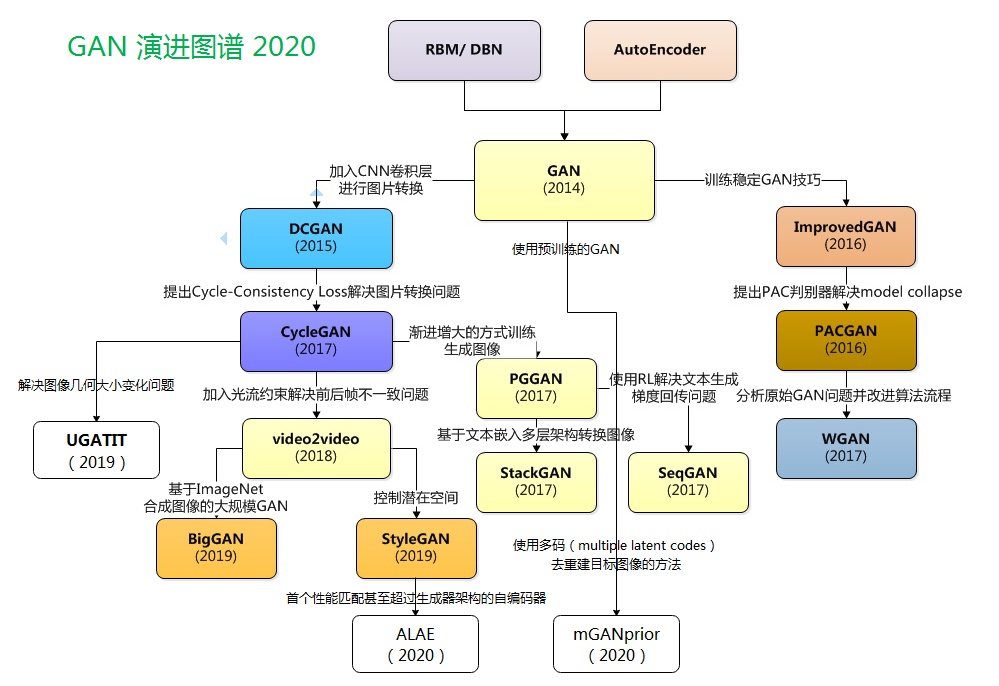
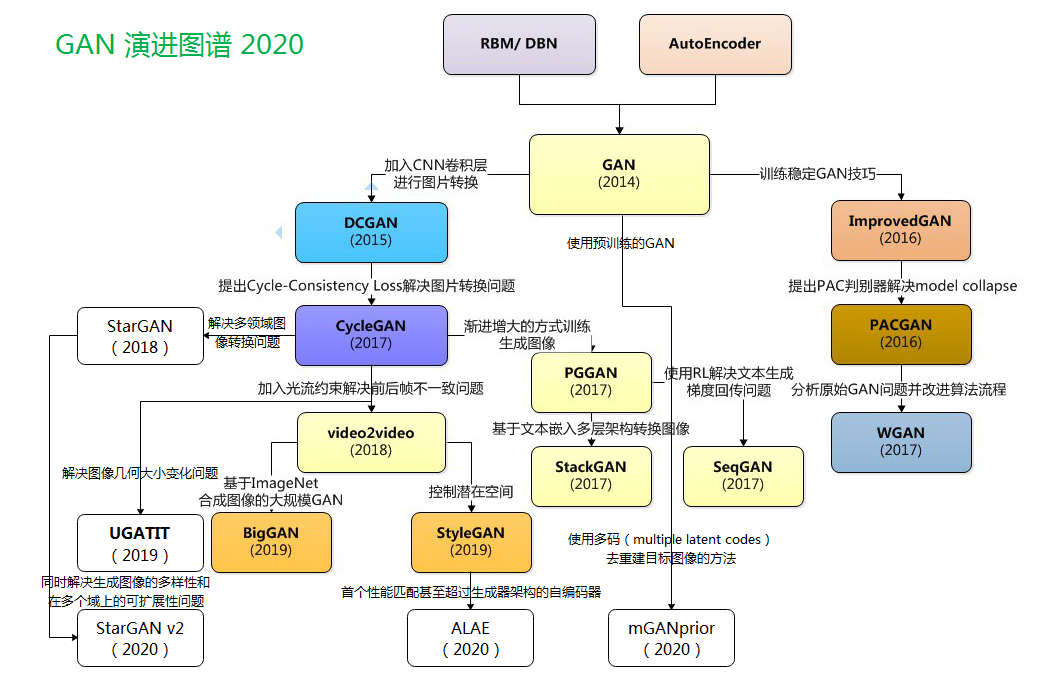
add StarGAN-v2

diff --git a/README.md b/README.md
@@ -3,9 +3,9 @@ GAN evolution graph 2020.
 
 ![](paper_images/GAN_2020.png)
 
-This repository contains the pix2pixHD algorithms(proposed by NVIDIA) of [DeepNude](DeepNude_software_itself), and more importantly, the general image generation theory and practice behind DeepNude. This resource includes the TensorFlow2 (Pytorch | PaddlePaddle) implementation of image generation models such as [pix2pix](Pix2Pix), [CycleGAN](CycleGAN), UGATIT, [DCGAN](DCGAN), SinGAN, [VAE](Variational_Autoencoder), ALAE and mGANprior.
+This repository contains the pix2pixHD algorithms(proposed by NVIDIA) of [DeepNude](DeepNude_software_itself), and more importantly, the general image generation theory and practice behind DeepNude. This resource includes the TensorFlow2 (Pytorch | PaddlePaddle) implementation of image generation models such as [pix2pix](Pix2Pix), [CycleGAN](CycleGAN), UGATIT, [DCGAN](DCGAN), SinGAN, [VAE](Variational_Autoencoder), ALAE, mGANprior and StarGAN-v2.
 
-这个仓库包含[DeepNude](DeepNude_software_itself)的pix2pixHD(由英伟达提出)算法，更重要的是DeepNude背后通用的图像生成理论与实践研究。本资源包含[pix2pix](Pix2Pix), [CycleGAN](CycleGAN), UGATIT, [DCGAN](DCGAN), SinGAN, [VAE](Variational_Autoencoder), ALAE and mGANprior 等图像生成模型的 [TensorFlow2](https://www.tensorflow.org/) (Pytorch | PaddlePaddle) 实现。
+这个仓库包含[DeepNude](DeepNude_software_itself)的pix2pixHD(由英伟达提出)算法，更重要的是DeepNude背后通用的图像生成理论与实践研究。本资源包含[pix2pix](Pix2Pix), [CycleGAN](CycleGAN), UGATIT, [DCGAN](DCGAN), SinGAN, [VAE](Variational_Autoencoder), ALAE, mGANprior和StarGAN-v2等图像生成模型的 [TensorFlow2](https://www.tensorflow.org/) (Pytorch | PaddlePaddle) 实现。
 
 ---
 
@@ -239,6 +239,20 @@ Although studied extensively, the issues of whether they have the same generativ
 Despite the success of Generative Adversarial Networks (GANs) in image synthesis, applying trained GAN models to real image processing remains challenging. Previous methods typically invert a target image back to the latent space either by back-propagation or by learning an additional encoder. However, the reconstructions from both of the methods are far from ideal. In this work, we propose a novel approach, called mGANprior, to incorporate the well-trained GANs as effective prior to a variety of image processing tasks.
 
 为了让训练好的GAN能用于处理图像，现有方法尝试以重新反向传播（寻找合适的Z）或者添加一个额外的编码器encoder将图像映射到潜在空间。但多数情况下两者的重建并不理想。在这项工作中提出一种新的逆映射（image->Z）方法，将训练好的GAN作为一个有效的先验去处理多种图像处理任务。
+
+### 10. StarGAN v2
+
++ 论文 Clova Research 2020 paper [StarGAN v2: Diverse Image Synthesis for Multiple Domains](https://arxiv.org/abs/1912.01865)
++ 视频 [Video](https://youtu.be/0EVh5Ki4dIY)
++ 代码 code [stargan-v2](https://github.com/clovaai/stargan-v2)
+
+**效果**
+
+![](paper_images/2020_Clova_StarGAN_v2_example.jpg)
+
+A good image-to-image translation model should learn a mapping between different visual domains while satisfying the following properties: 1) diversity of generated images and 2) scalability over multiple domains. Existing methods address either of the issues, having limited diversity or multiple models for all domains. We propose StarGAN v2, a single framework that tackles both and shows significantly improved results over the baselines.
+
+一个好的图像到图像转换模型应该学习不同视觉域之间的映射，同时满足以下特性：1）生成图像的多样性和2）跨多个域的可伸缩性。现有的方法解决了这两个问题中的任何一个，对所有域都具有有限的多样性或多个模型。我们提出了StarGAN v2，这是一个可以同时解决这两个问题并在基线上显示出显著改进的结果的单一框架。
 
 ---
 
